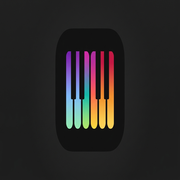
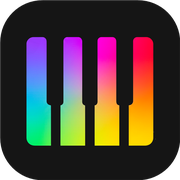
Site: stop cropping the app screenshots; rebuild the link-preview card properly
Both phone frames were the wrong shape for the screenshots they hold. The
images are 9:19.5 (720x1558) but the frames were 0.52 and 0.55, so object-cover
silently chopped ~8% off the top and bottom of every mockup — losing the close
button, the progress bar and the key badge at the top and the action bar at the
bottom. Size both frames to the real screenshot ratio (hero 626px, method 566px)
so the screens show whole.

The OG card was also wrong: it was built from the site's 1408x768 logo squashed
into a square, which baked in a grey box and distorted the artwork. Rebuild it
from the app's clean 512px icon on the brand background, with the wordmark,
tagline and a rainbow rule; regenerate the favicon and touch icon from the same
source.

Claude-Session: https://claude.ai/code/session_01WxjDdAHP8mv3wAafRFViM9

diff --git a/src/components/WhyImprovyPage.tsx b/src/components/WhyImprovyPage.tsx
@@ -126,7 +126,7 @@ function InteractiveIPhoneMockup({
       onMouseMove={handleMouseMove}
       onMouseLeave={handleMouseLeave}
       style={style}
-      className="relative w-full max-w-[270px] h-[480px] rounded-[36px] bg-zinc-950 p-2 transition-all duration-300 transform-style-3d shadow-2xl hover:shadow-[0_25px_60px_rgba(0,0,0,0.9)] border border-white/[0.05] group"
+      className="relative w-full max-w-[270px] h-[566px] rounded-[36px] bg-zinc-950 p-2 transition-all duration-300 transform-style-3d shadow-2xl hover:shadow-[0_25px_60px_rgba(0,0,0,0.9)] border border-white/[0.05] group"
     >
       {/* Magical Outer Neon Edge Glow & Dual-Border Shadowing */}
       <div 

diff --git a/src/index.css b/src/index.css
@@ -162,7 +162,8 @@
 
 .card {
   width: 300px;
-  height: 560px;
+  /* 9:19.5 — matches the 720x1558 app screenshots so nothing is cropped. */
+  height: 626px;
   background: black;
   border-radius: 44px;
   border: 2px solid rgb(40, 40, 40);
